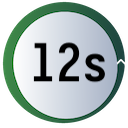
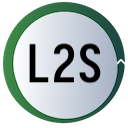
[Misc] Some misc changes to prepare for release
- set new vscode version and make it consistent in test code
- modify the official publisher's label and id
- make icon more readable -> 12s to L2S

Changed region(s): [[0.2188, 0.3125, 0.8438, 0.6562]]

diff --git a/editors/code/src/test/ui/extension.test.ts b/editors/code/src/test/ui/extension.test.ts
@@ -6,11 +6,11 @@ suite('Extension Test Suite', () => {
 	vscode.window.showInformationMessage('Start all tests.');
 
 	test('Extension should be present', () => {
-		assert.ok(vscode.extensions.getExtension('ttiimm.log2src-ext'));
+		assert.ok(vscode.extensions.getExtension('log2src.log2src'));
 	});
 
 	test('Extension should activate', async () => {
-		const ext = vscode.extensions.getExtension('ttiimm.log2src-ext');
+		const ext = vscode.extensions.getExtension('log2src.log2src');
 		assert.ok(ext);
 		await ext!.activate();
 		assert.strictEqual(ext!.isActive, true);
@@ -18,7 +18,7 @@ suite('Extension Test Suite', () => {
 
 	test('Should register log2src debug type', async () => {
 		// Ensure extension is activated
-		const ext = vscode.extensions.getExtension('ttiimm.log2src-ext');
+		const ext = vscode.extensions.getExtension('log2src.log2src');
 		await ext?.activate();
 
 		// Verify the extension activated successfully

diff --git a/editors/code/src/test/runTest.ts b/editors/code/src/test/runTest.ts
@@ -23,6 +23,7 @@ async function main() {
 		await runTests({ 
 			extensionDevelopmentPath, 
 			extensionTestsPath,
+			version: '1.97.0',
 			launchArgs
 		 });
 	} catch (err) {
